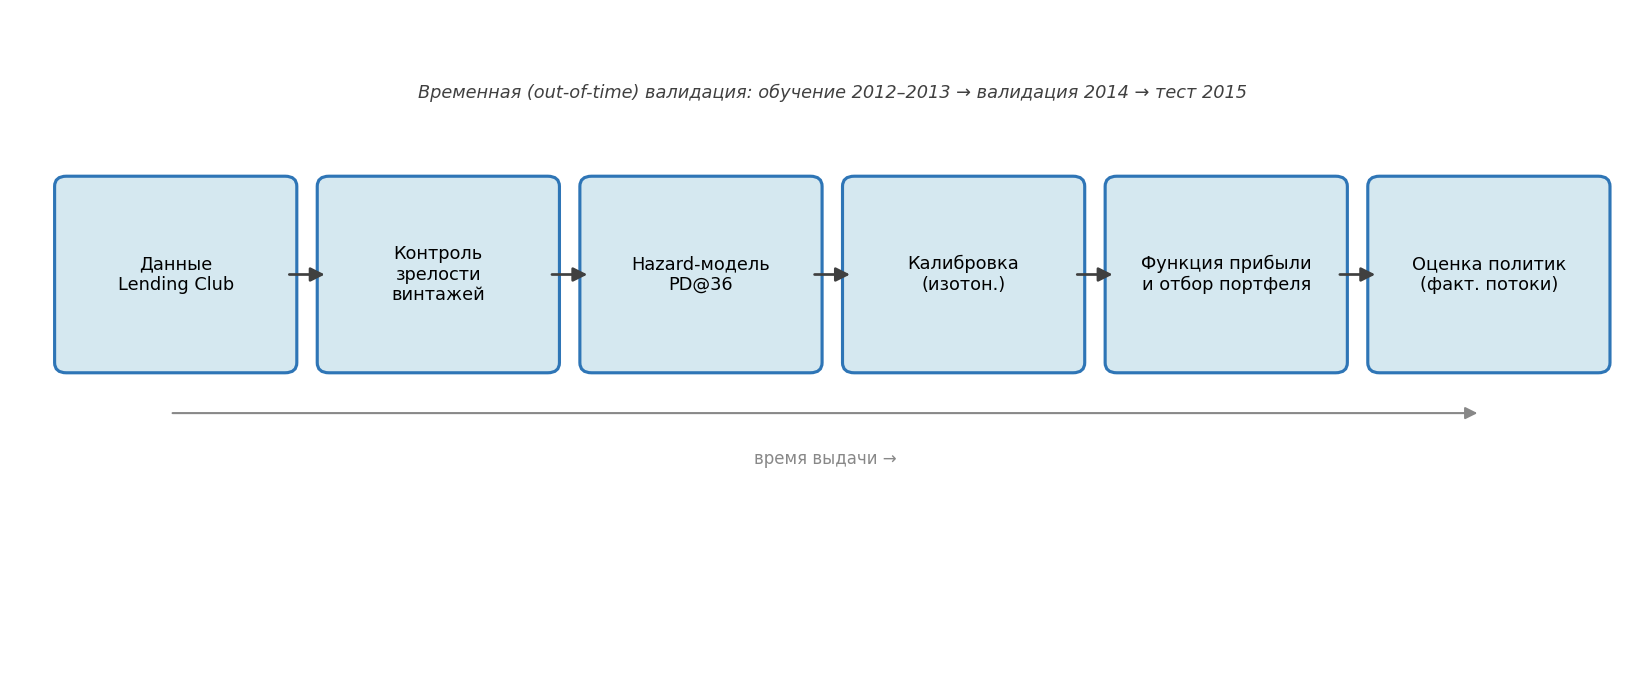
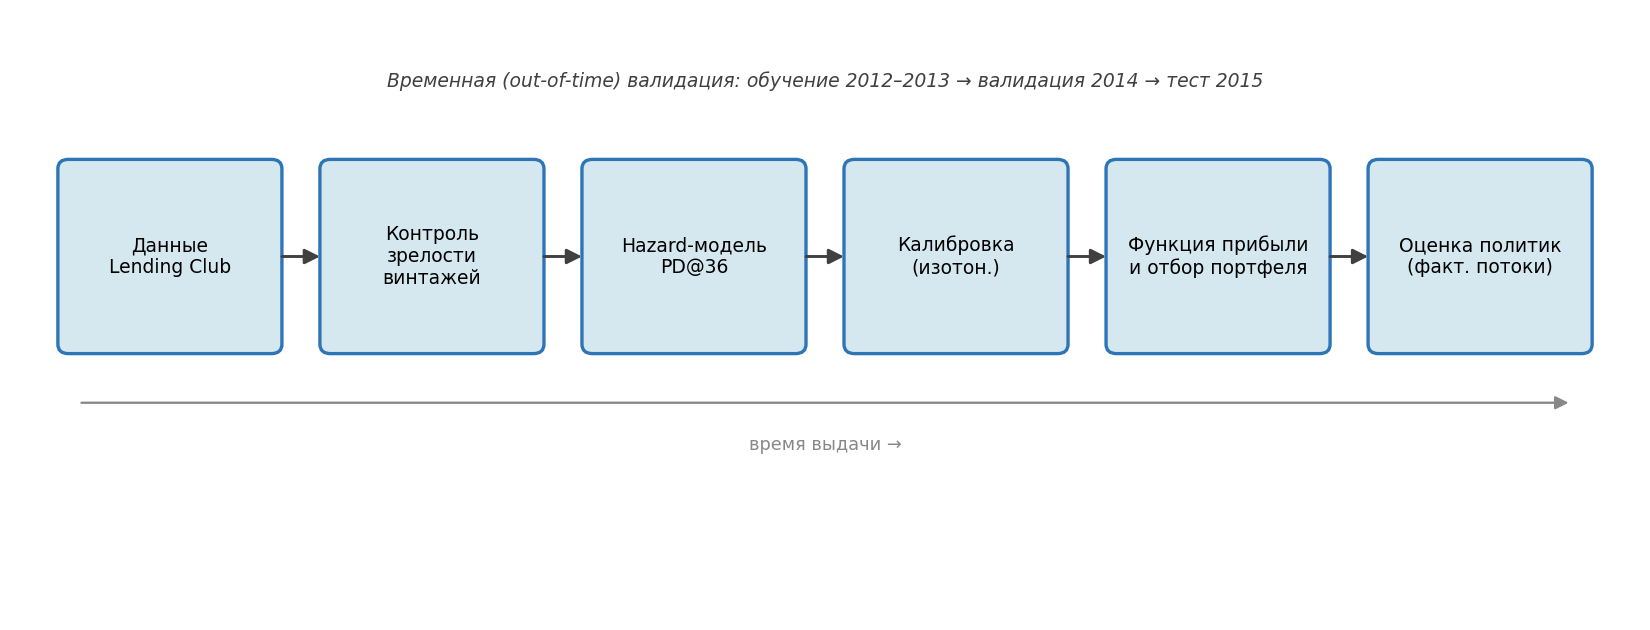
Update coursework

Changed region(s): [[0.0309, 0.2413, 0.9891, 0.573], [0.0618, 0.6032, 0.9582, 0.7238], [0.2164, 0.1206, 0.7727, 0.1508]]

diff --git a/reports/missing_shares.md b/reports/missing_shares.md
@@ -6,7 +6,7 @@
 Блока 1: непустой `loan_status`, корректная дата выдачи, положительный
 платёж). Размеры выборок совпадают со столбцом «Всего (PD)» Табл. 2.2.
 
-Срез данных: 2018-12-31. Воспроизводится ячейкой «Приложение А» в
+Срез данных: 2018-12-31. Воспроизводится ячейкой «Приложение Б» в
 `notebooks/coursework_script.ipynb`.
 
 | Признак | Тип | Обучение 2012–2013 | Валидация 2014 | Тест 2015 |
